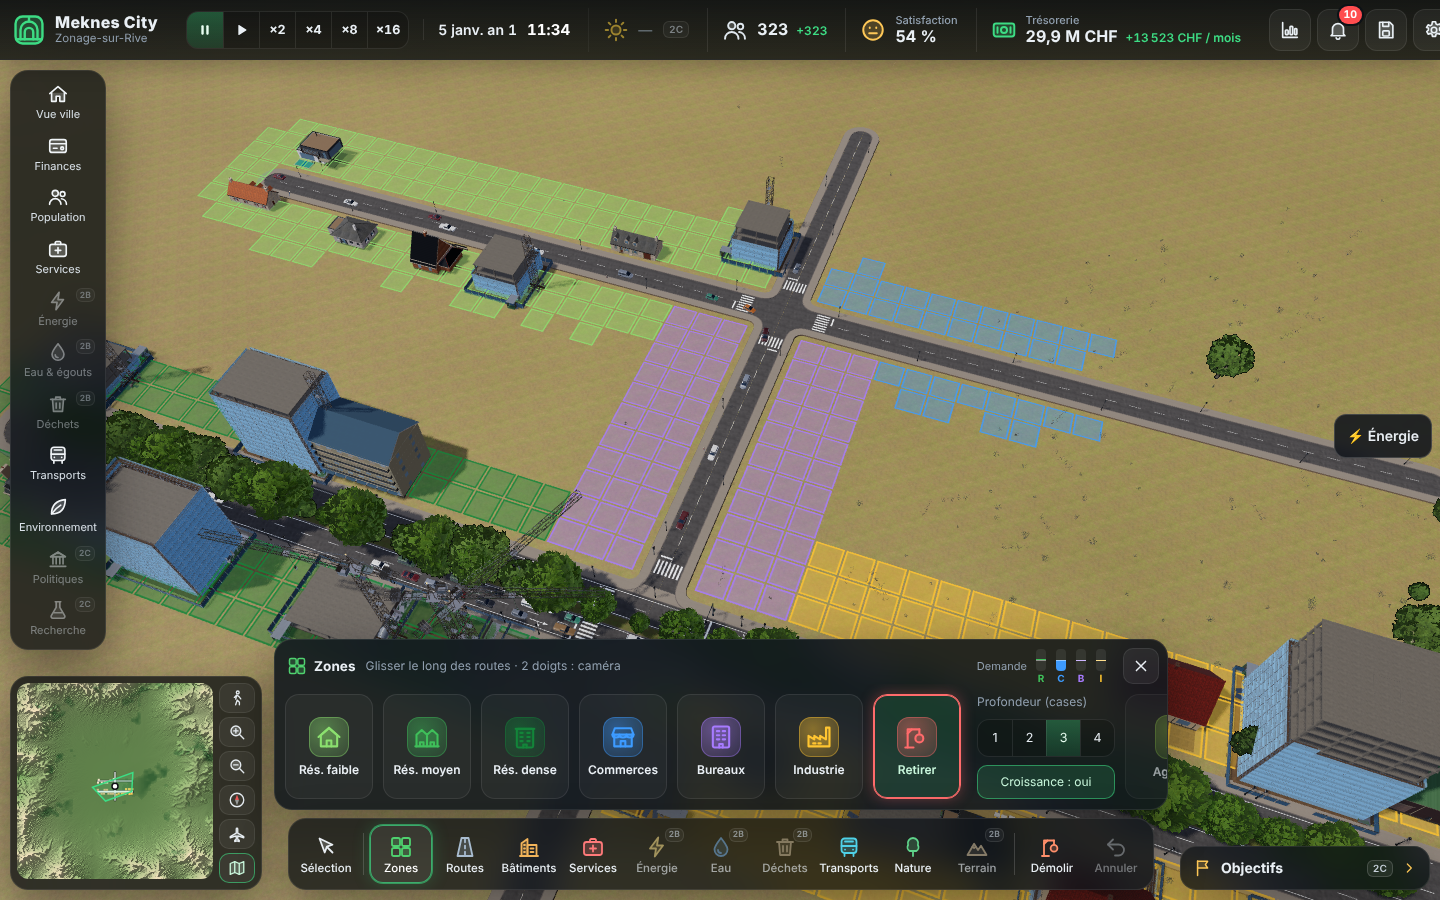
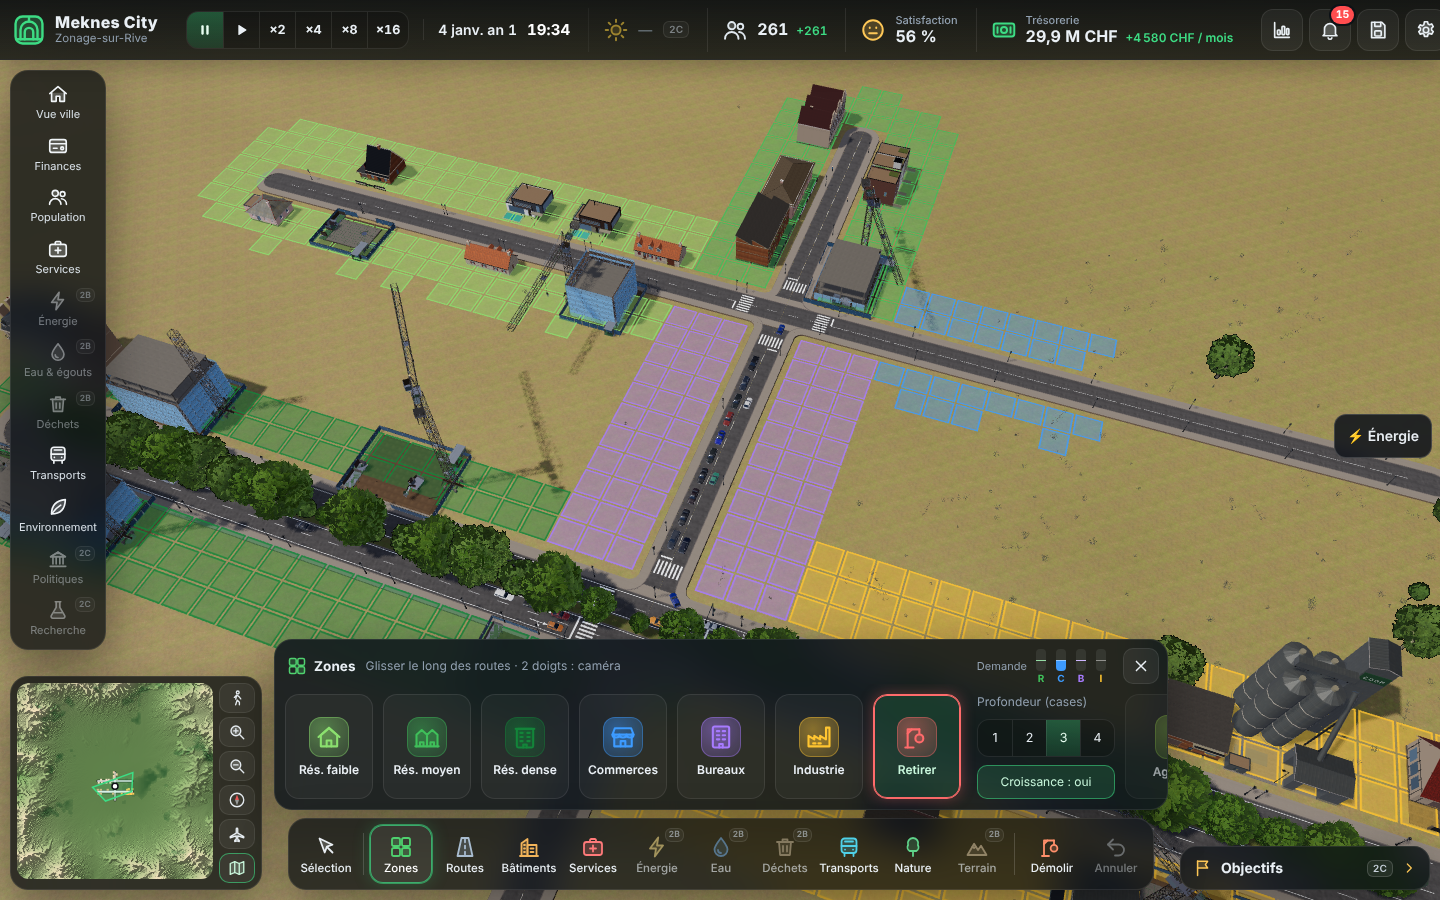
Zonage : documentation (reste à faire, fonctionnalités)
Claude-Session: https://claude.ai/code/session_01KGPYpS1HVd5yszcRH4nKth

diff --git a/city-builder/docs/requests/zonage.md b/city-builder/docs/requests/zonage.md
@@ -1,0 +1,26 @@
+# Zonage (phase 2B) — état et reste à faire
+
+Documentation du module : `docs/ZONAGE.md`. Captures : `docs/captures-zonage/`.
+
+## Livré
+- Outil Zones (souris et doigt), 6 types, Retirer, profondeur 1–4 cases, croissance oui/pause, jauge R/C/B/I.
+- Superposition par instanciation + shader, visible seulement avec l'outil (mode allégé iPhone compris).
+- Croissance façade vers la route (règle de l'outil de pose), chantiers ouverts automatiquement, demande par secteur.
+- Densification des quartiers valorisés (niveaux 1→2→3, même zone, même façade).
+- Section de sauvegarde v1 + migration ; anciennes sauvegardes chargées (tests `tests/zonage/save.test.ts`).
+- API d'écriture minimale du cœur : `PluginContext.development` (promotion privée sans coût).
+
+## Demandes au superviseur / API du cœur
+1. `PluginContext.development` (place / demolish privés) ajouté dans `src/sim/plugins/types.ts`, `host.ts`, `world.ts`
+   (`placePrivateBuilding`, `demolishPrivateBuilding`) : à valider comme API commune.
+2. Points d'extension UI ajoutés : `DrawerProvider` (`src/ui/buildbar.ts`) et `ToolController.setPointerOverride`
+   (`src/input/tools.ts`).
+
+## Reste à faire
+- Parcours e2e `npm run e2e:zonage` : vert sur bureau (peinture souris, retrait, jauge, croissance en jeu, densification,
+  sauvegarde) ; le passage tactile iPhone a été corrigé (trait limité à l'écran) et doit être revalidé de bout en bout.
+- Lots arrière : remplir la 3e / 4e rangée derrière les petites maisons.
+- Brancher la demande sur l'économie (service `zonage:demande`) et la valeur de quartier sur la grille municipale `valeur_fonciere`.
+- Abandon / dé-densification (logements vides durablement, pollution).
+- Zones agricole et spéciales (tuiles encore grisées).
+- Commerces : peu de croissance quand les immeubles denses à rez-de-chaussée commercial couvrent déjà la demande C (réglage à affiner).

diff --git a/city-builder/FEATURES.md b/city-builder/FEATURES.md
@@ -56,6 +56,11 @@ Commandes de preuve : `npm run typecheck`, `npm test` (unitaires + intégration)
 | Build : `dist/index.html` + `dist/artifact.html` (fragment) + `game.js` + `sim.worker.js` + `assets/` relatifs ; budget ≤ 60 Mo (≈ 42 Mo) | `npm run build` |
 | Test de charge (500 bâtiments, 1 000 véhicules) et mesures | `npm run stress` → `tests/e2e/out/stress-rapport.json` (chiffres dans `PROJECT_STATUS.md`) |
 
+### Zonage et croissance automatique (phase 2B)
+| Fonctionnalité | Preuve |
+|---|---|
+| Outil Zones (souris / doigt) : résidentiel faible, moyen, dense, commerces, bureaux, industrie, Retirer, profondeur 1–4 cases, superposition instanciée visible avec l'outil ; croissance façade vers la route avec chantiers, jauge R/C/B/I, densification ; sauvegarde versionnée | `tests/zonage/*.test.ts` (19 tests), `tests/zonage/e2e.mjs`, captures `docs/captures-zonage/`, `docs/ZONAGE.md` |
+
 ## Partiel (fonctionne, avec limites connues)
 | Fonctionnalité | Limite | Phase |
 |---|---|---|
